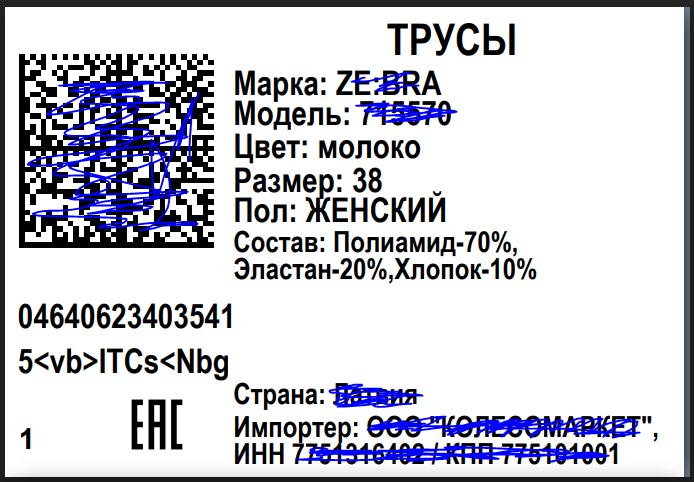
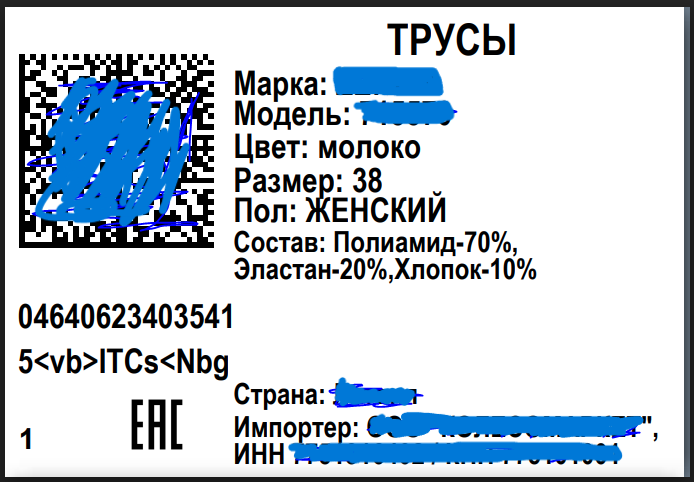
images

Changed region(s): [[0.3934, 0.778, 0.938, 0.9647], [0.0303, 0.1556, 0.2723, 0.4668], [0.4539, 0.1245, 0.6657, 0.2801]]

diff --git a/README.md b/README.md
@@ -168,7 +168,7 @@ dist/
 
 ## 📊 Результаты работы
 
-### До обработки
+### До обработки (Детали были закрашены в целях конфиденциальности)
 
 ![before](images/before.png)
 
